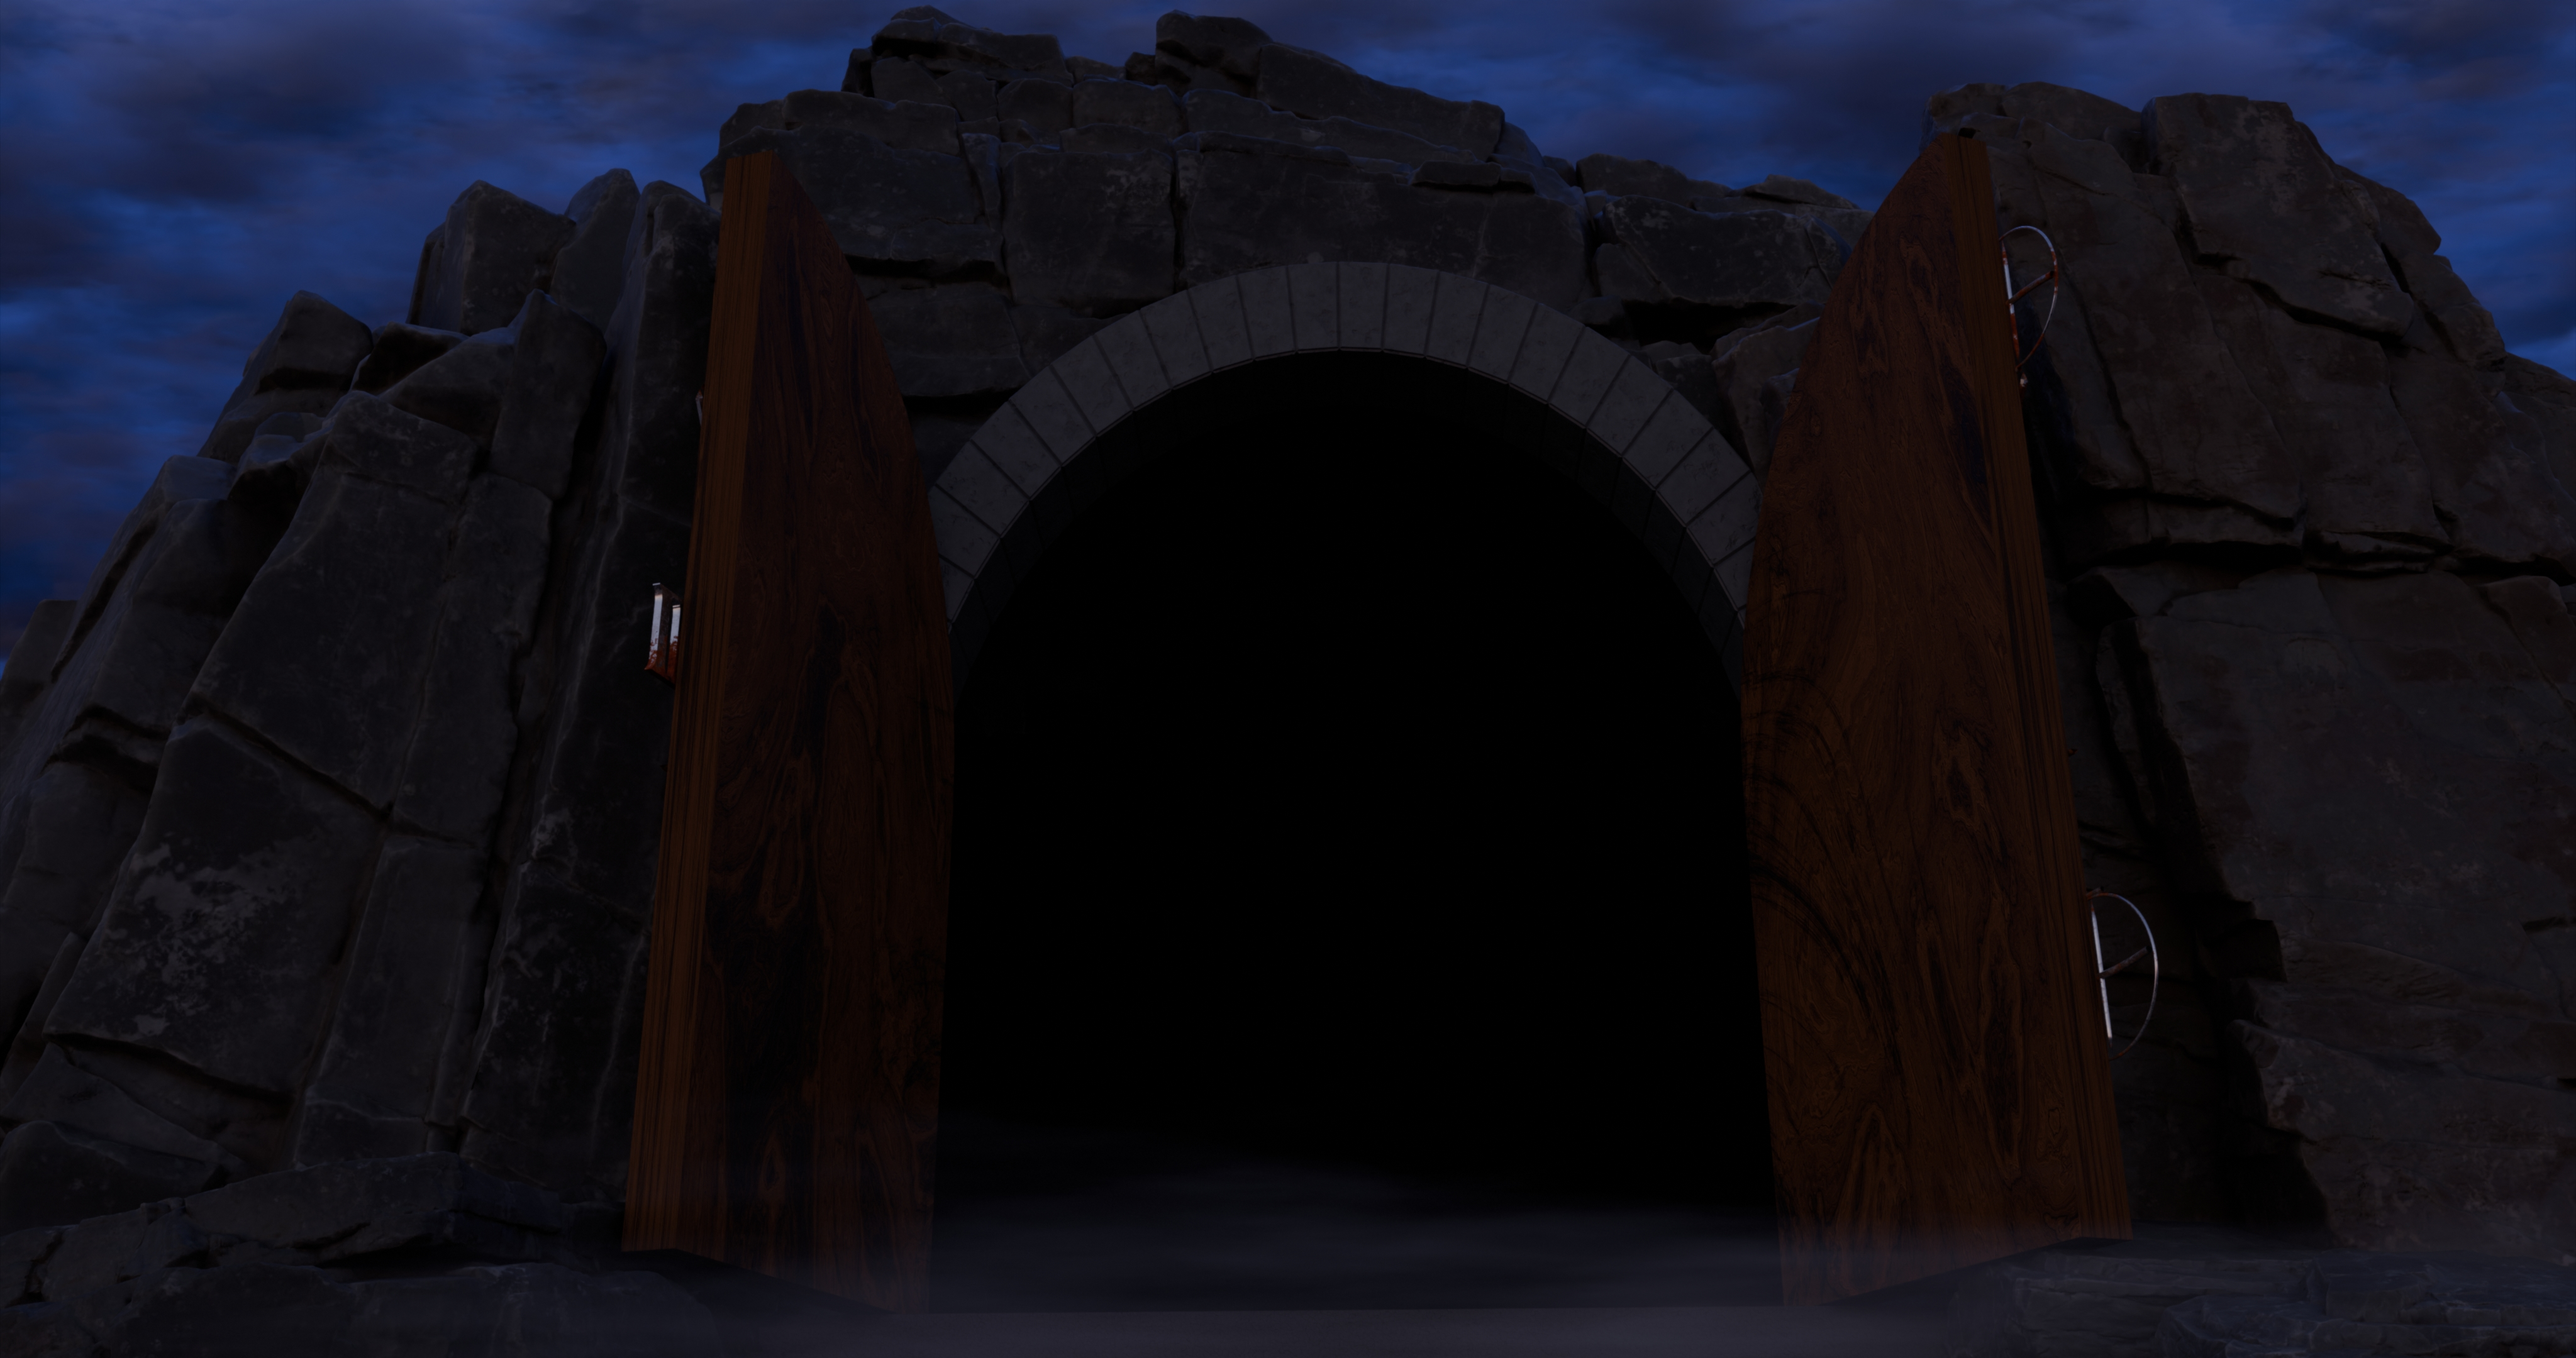
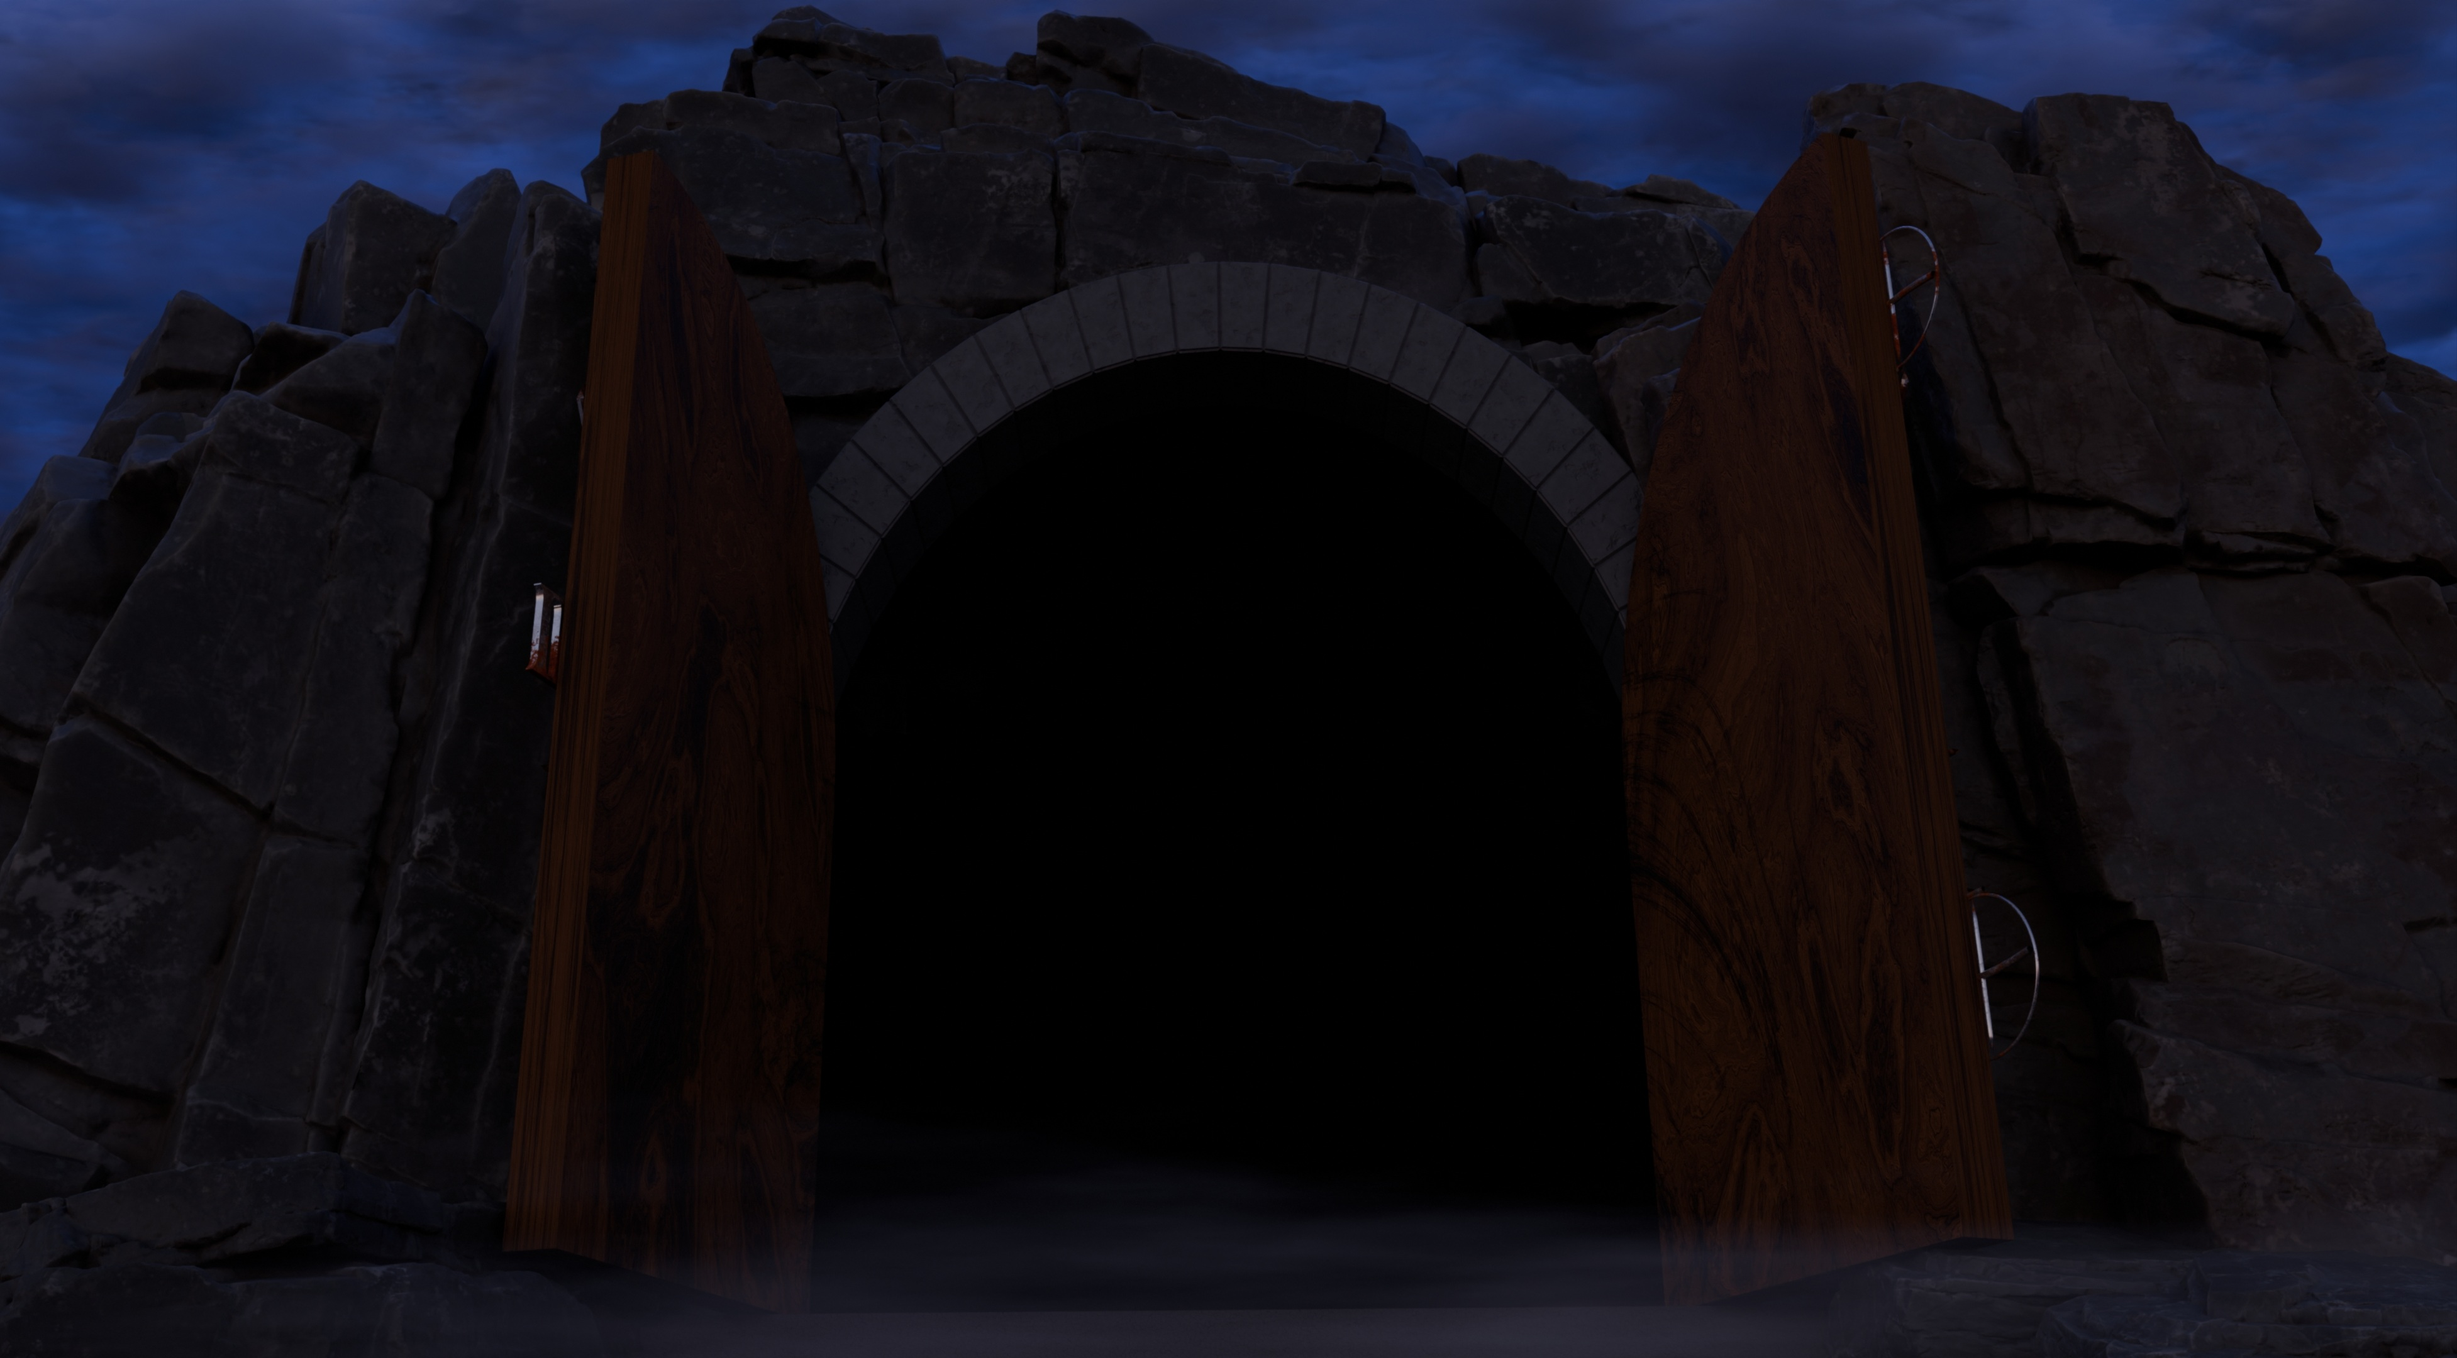
music-buttons-reworked

diff --git a/html/music.html b/html/music.html
@@ -9,10 +9,10 @@
                 </div>
             </div>
             <div class="controls">
-                <button class="play">▶</button>
-                <button class="pause">⏸</button>
-                <button class="stop">⏹</button>
-                <button class="toggleLyrics">📝</button>
+                <button class="play"><img src="img/play.png" alt="Play"></button>
+                <button class="pause"><img src="img/pause.png" alt="Pause"></button>
+                <button class="stop"><img src="img/stop.png" alt="Stop"></button>
+                <button class="toggleLyrics"><img src="img/lyrics.png" alt="Lyrics"></button>
             </div>
             <p class="lyrics">
                 Yeha Yeha Yeha!<br>
@@ -25,10 +25,10 @@
             <h2>Old Wives<span class="clear-text">'</span> Tale</h2>
             <span class="track-loading">Song wird geladen...</span>
             <div class="controls">
-                <button class="play">▶</button>
-                <button class="pause">⏸</button>
-                <button class="stop">⏹</button>
-                <button class="toggleLyrics">📝</button>
+                <button class="play"><img src="img/play.png" alt="Play"></button>
+                <button class="pause"><img src="img/pause.png" alt="Pause"></button>
+                <button class="stop"><img src="img/stop.png" alt="Stop"></button>
+                <button class="toggleLyrics"><img src="img/lyrics.png" alt="Lyrics"></button>
             </div>
             <p class="lyrics">
                 Yeha Yeha Yeha!<br>
@@ -37,6 +37,20 @@
             </p>
         </div>
         <hr>
-        ...
+        <div class="track" data-src="./philosophers/sound/Philosophers-Background.mp3">
+            <h2><span class="clear-text">...</span></h2>
+            <span class="track-loading">Song wird geladen...</span>
+            <div class="controls">
+                <button class="play"><img src="img/play.png" alt="Play"></button>
+                <button class="pause"><img src="img/pause.png" alt="Pause"></button>
+                <button class="stop"><img src="img/stop.png" alt="Stop"></button>
+                <button class="toggleLyrics"><img src="img/lyrics.png" alt="Lyrics"></button>
+            </div>
+            <p class="lyrics">
+                Yeha Yeha Yeha!<br>
+                Krasser Songtext<br>
+                Oh yeha 🎤
+            </p>
+        </div>
     </section>
 </p>

diff --git a/style/styles.css b/style/styles.css
@@ -534,12 +534,19 @@ opacity: 0;
     }
     
     .controls button {
-        color: white;
+        color: rgb(234, 234, 232);
         background-color: transparent;
         border-radius: 10px;
         height: 50px;
         width: 50px;
-        font-size: 20px;
+        font-size: 50px;
+        border: 0px;
+        padding-bottom: 10px;
+    }
+
+    .controls button img {
+        border: rgb(143, 151, 196) 3px solid;
+        border-radius: 25px;
     }
 
     .track-loading {
